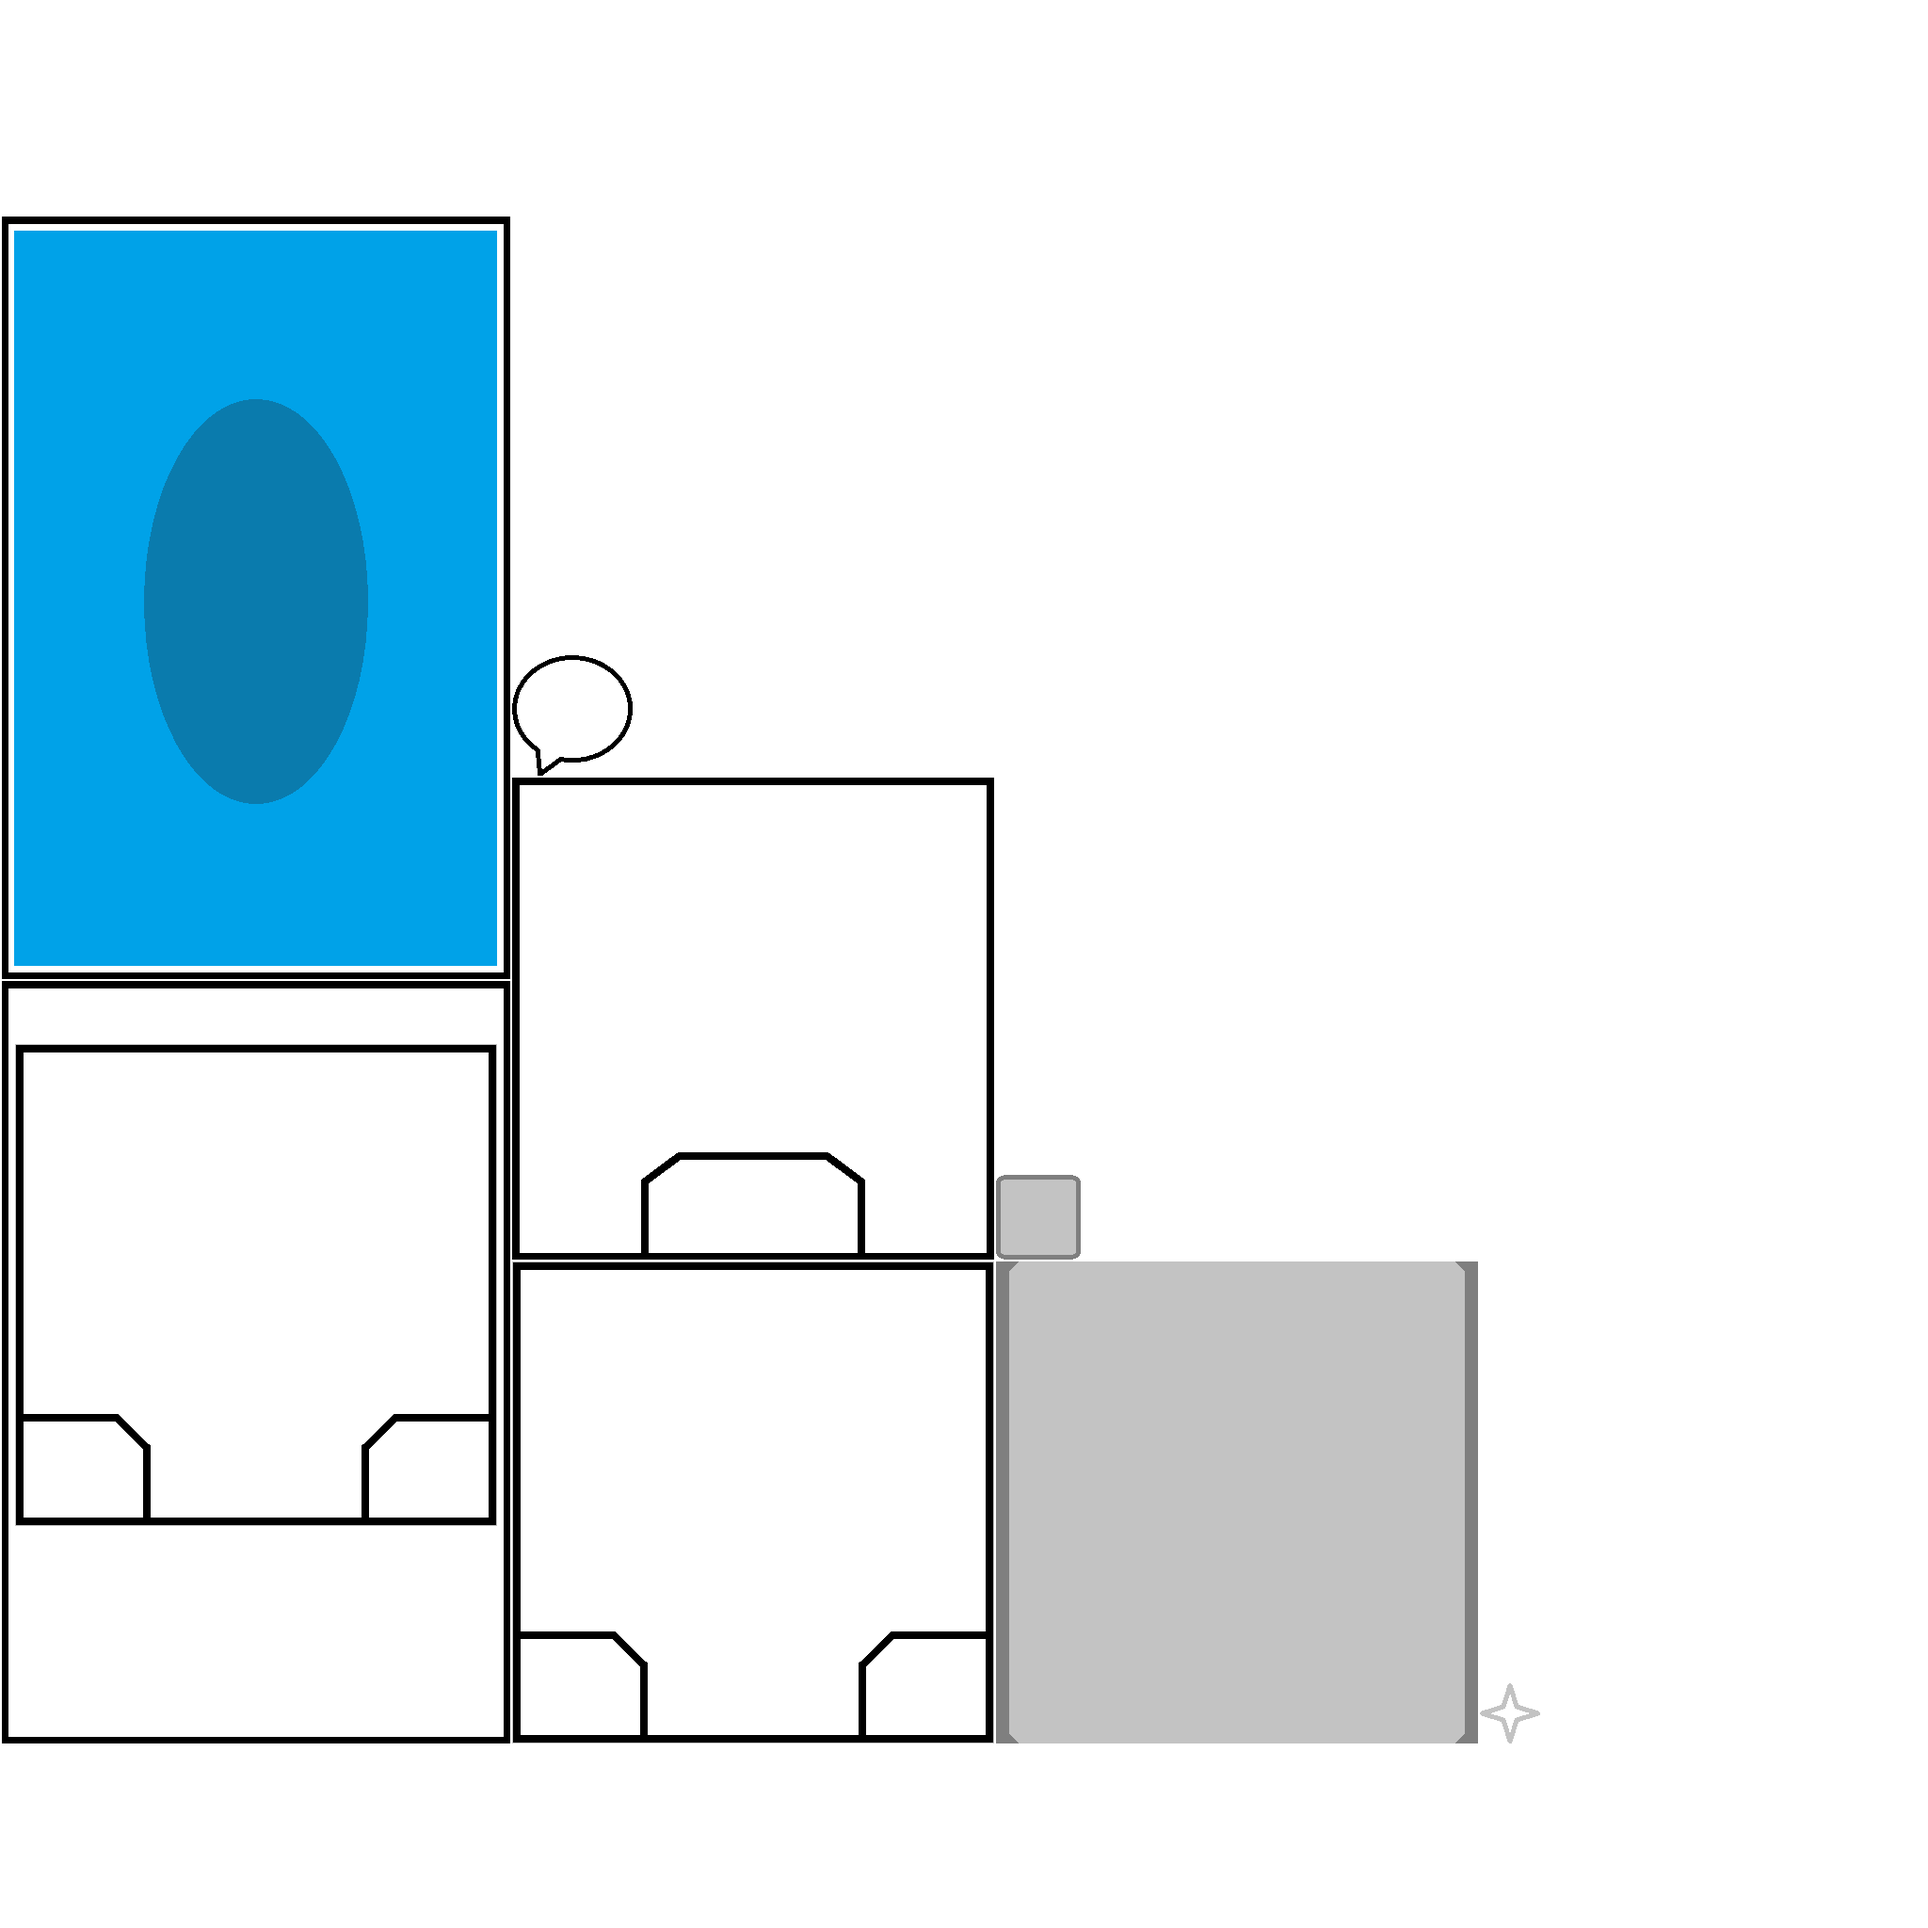
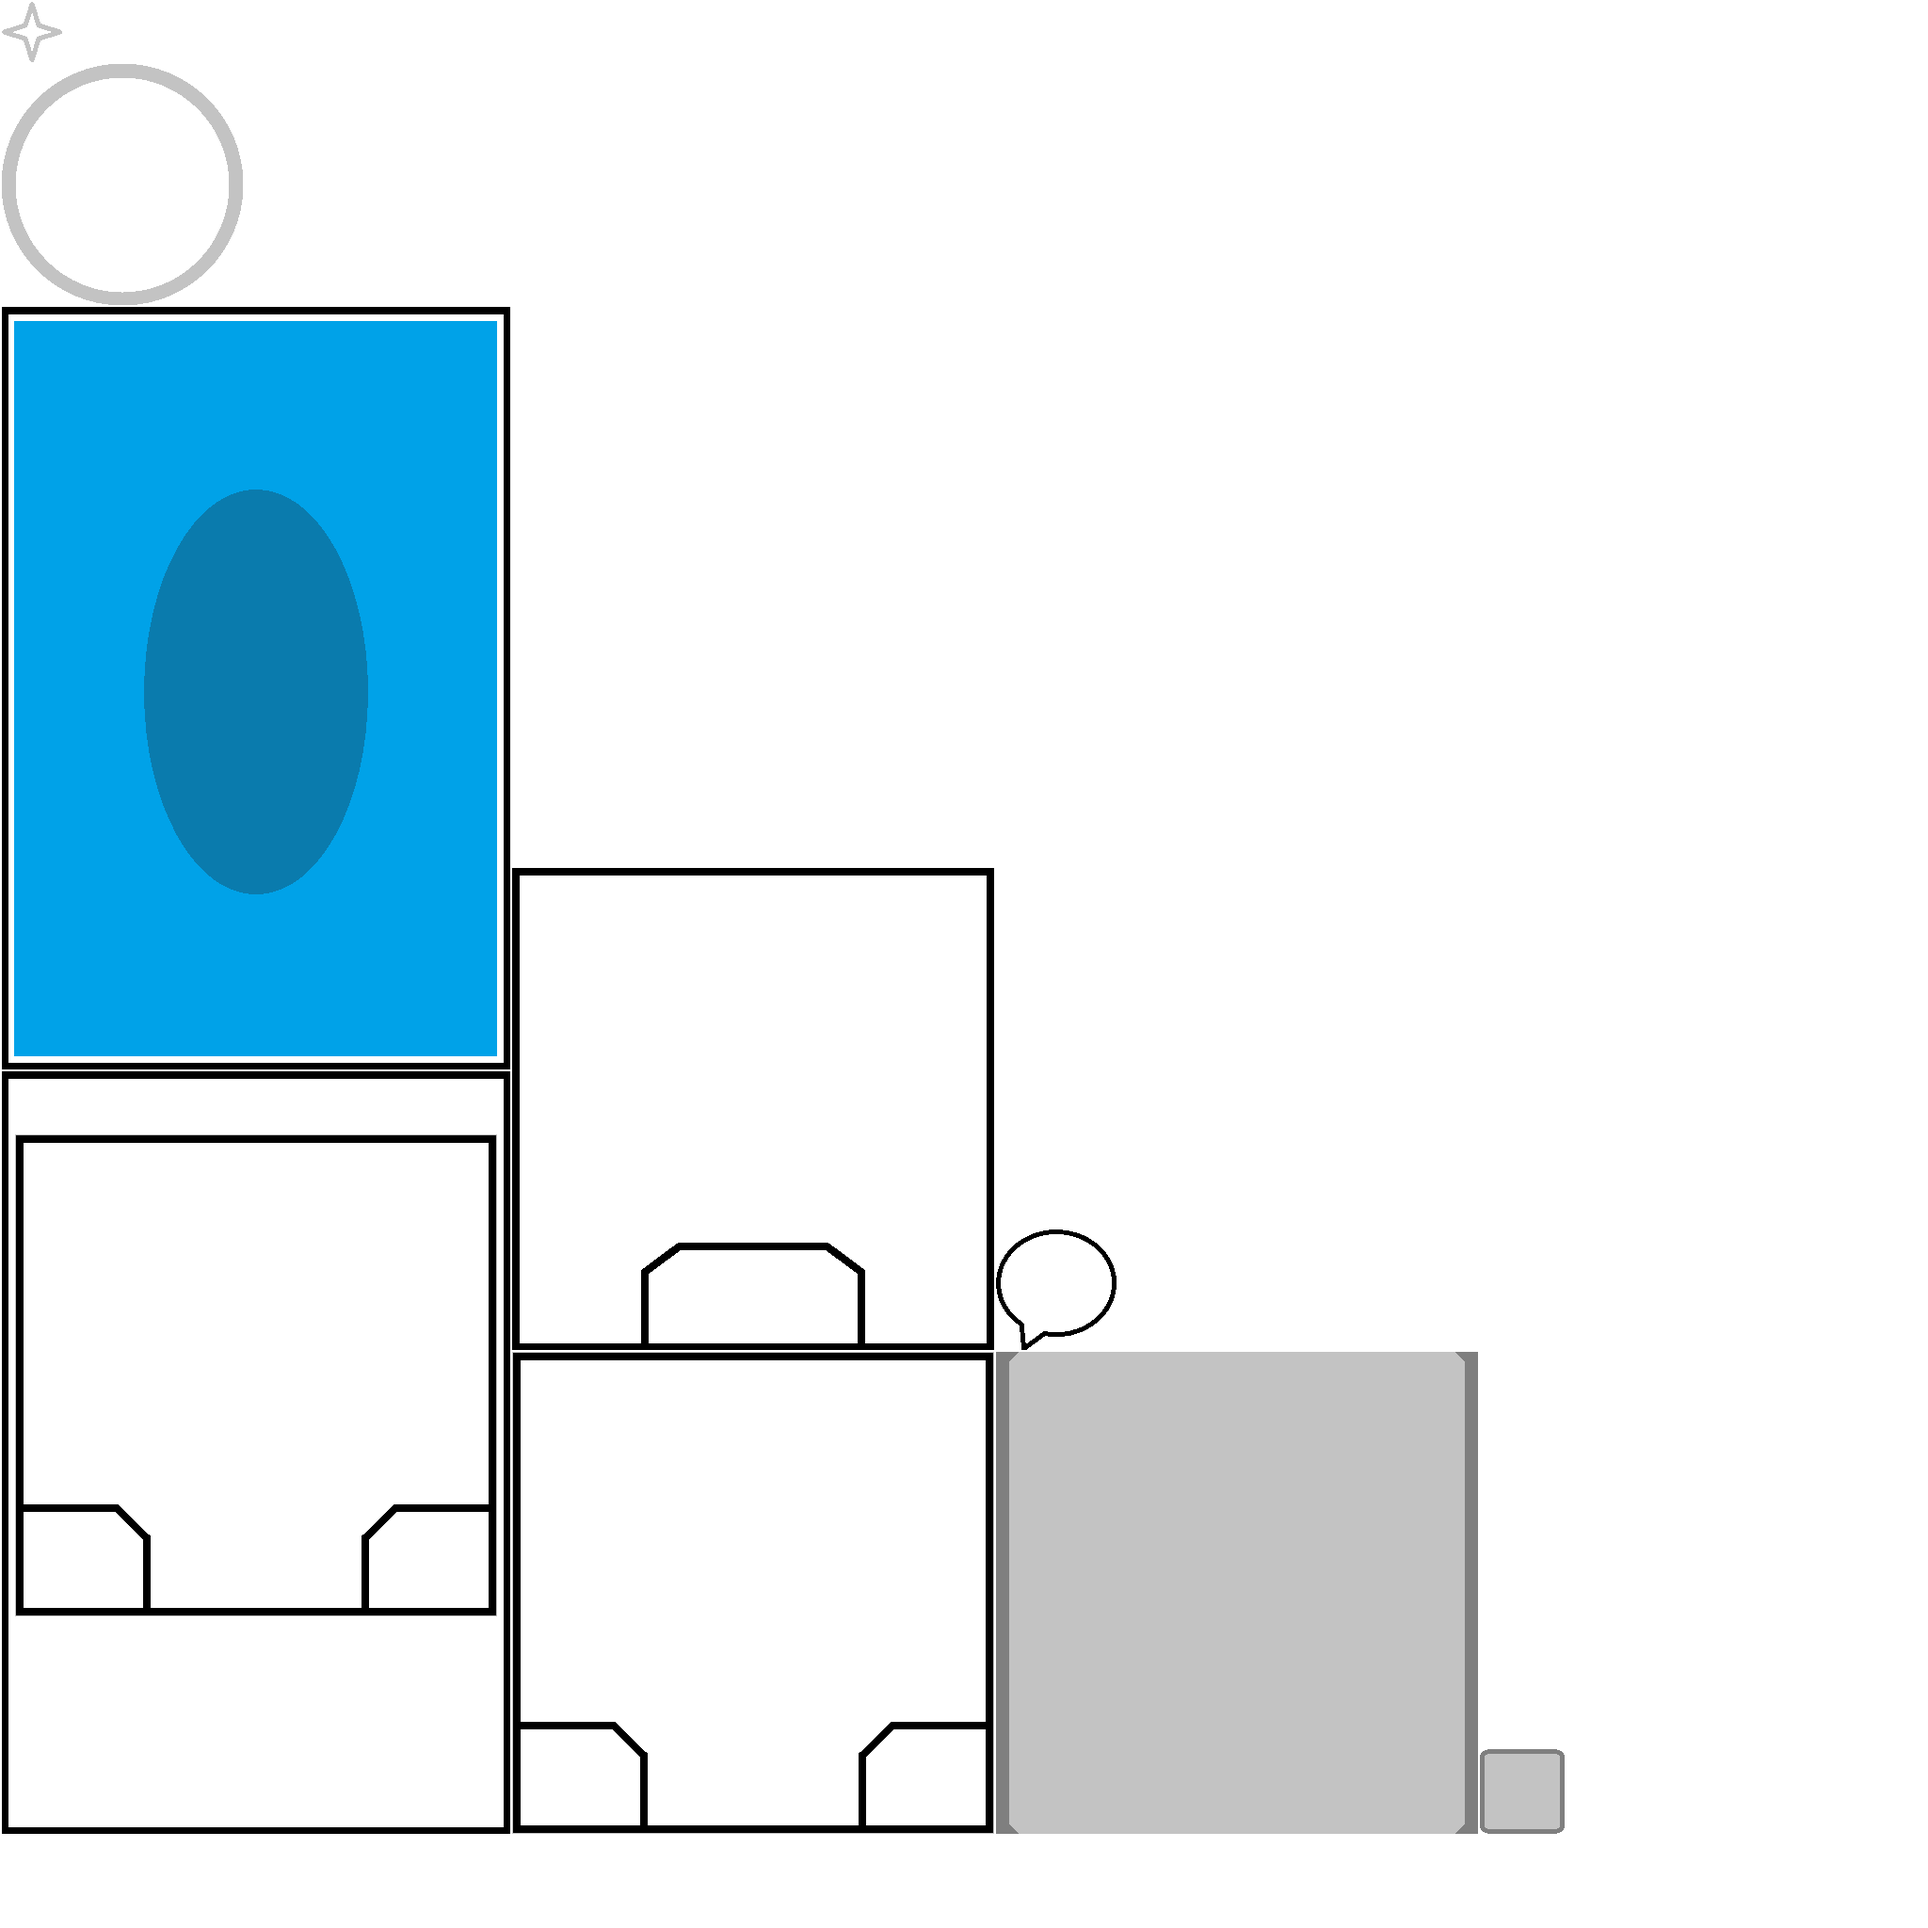
better split between card and battlercard :]

diff --git a/core/src/main/java/io/bloogames/deckbuilder/view/CardView.java b/core/src/main/java/io/bloogames/deckbuilder/view/CardView.java
@@ -1,10 +1,15 @@
 package io.bloogames.deckbuilder.view;
 
+import com.badlogic.gdx.graphics.Color;
 import com.badlogic.gdx.scenes.scene2d.Actor;
+import com.badlogic.gdx.scenes.scene2d.Group;
+import com.badlogic.gdx.scenes.scene2d.Touchable;
 import com.badlogic.gdx.scenes.scene2d.actions.Actions;
 import com.badlogic.gdx.scenes.scene2d.ui.Image;
+import com.badlogic.gdx.scenes.scene2d.ui.Label;
 import com.badlogic.gdx.utils.Align;
 import io.bloogames.deckbuilder.manager.AssetManager;
+import io.bloogames.deckbuilder.manager.FontManager;
 import io.bloogames.deckbuilder.model.CardModel;
 import io.bloogames.deckbuilder.scene2d.ResizableGroup;
 import io.bloogames.deckbuilder.scene2d.ResizableSettings;
@@ -20,37 +25,61 @@ public abstract class CardView extends ResizableGroup implements View, Targetabl
 
     private final TargetingVisualState targetingVisualState = new TargetingVisualState();
     private final CardModel cardModel;
-    private Image cardBack;
+    protected Image cardBack;
+    protected Image frame;
+    protected Image art;
+    protected Image manaSymbol;
+    protected Label nameLabel;
+    protected Label manaLabel;
+    protected ResizableGroup frontFace;
 
-    public CardView(CardModel cardModel) {
+    public CardView(CardModel cardModel, String frameReference, String artReference) {
         super(WIDTH, HEIGHT);
         this.cardModel = cardModel;
+        setOrigin(Align.center);
+
+        this.frontFace = new ResizableGroup(WIDTH, HEIGHT);
+        frontFace.setTouchable(Touchable.disabled);
+
+        this.art = new Image(AssetManager.INSTANCE.getSprite(artReference));
+
+        this.frame = new Image(AssetManager.INSTANCE.getSprite(frameReference));
+
+        this.manaSymbol = new Image(AssetManager.INSTANCE.getSprite("cardmana"));
+
+        nameLabel = new Label(cardModel.getCardName(),
+            new Label.LabelStyle(FontManager.INSTANCE.getCardNameFont(), null));
+        nameLabel.setAlignment(Align.center, Align.left);
+
+        manaLabel = new Label(cardModel.getCurrentCost() + "",
+            new Label.LabelStyle(FontManager.INSTANCE.getBattlerCardManaCostFont(), null));
+        manaLabel.setAlignment(Align.center, Align.center);
+
+        frontFace.register(art, new ResizableSettings(WIDTH * 0.948f, WIDTH * 0.948f).offset(WIDTH * 0.025f, HEIGHT * 0.284f));
+        frontFace.register(frame, new ResizableSettings(WIDTH, HEIGHT, Align.center));
+        frontFace.register(nameLabel, new ResizableSettings(WIDTH - 60f, 25, Align.top).offset(30f, 15f));
+        frontFace.register(manaSymbol, new ResizableSettings(60, 60, Align.topLeft).offset(-10f, -10f));
+        frontFace.register(manaLabel, new ResizableSettings(60, 60, Align.topLeft).offset(-10f, -10f));
+
+        cardBack = new Image(AssetManager.INSTANCE.getSprite("cardback"));
+        register(frontFace, new ResizableSettings(WIDTH, HEIGHT, Align.center));
+        register(cardBack, new ResizableSettings(WIDTH, HEIGHT, Align.center));
+        setTouchable(Touchable.enabled);
+
+        setFacing(cardModel.isFaceup());
     }
 
     public CardModel getModel() {
         return cardModel;
     }
 
-    public abstract void hideContents();
-
-    public abstract void showContents();
+    public void setFacing(boolean isFaceUp) {
+        frontFace.setVisible(isFaceUp);
+        cardBack.setVisible(!isFaceUp);
+    }
 
     public boolean isFaceup() {
         return cardModel.isFaceup();
-    }
-
-    public void flipCard(boolean faceup) {
-        cardModel.setFaceup(faceup);
-        if (faceup) {
-            unregister(cardBack);
-            showContents();
-        } else {
-            hideContents();
-            if (cardBack == null) {
-                cardBack = new Image(AssetManager.INSTANCE.getSprite("cardback"));
-            }
-            register(cardBack, new ResizableSettings(WIDTH, HEIGHT, Align.center));
-        }
     }
 
     public void disappear() {
@@ -71,5 +100,19 @@ public abstract class CardView extends ResizableGroup implements View, Targetabl
     @Override
     public Actor actor() {
         return this;
+    }
+
+    @Override
+    public void applyHighlight() {
+        Color colour = targetingVisualState().getColour();
+        art.setColor(colour);
+        frame.setColor(colour);
+        manaSymbol.setColor(colour);
+    }
+
+    @Override
+    public void sync() {
+        nameLabel.setText(getName());
+        manaLabel.setText(cardModel.getCurrentCost());
     }
 }

diff --git a/core/src/main/java/io/bloogames/deckbuilder/view/BattlerCardView.java b/core/src/main/java/io/bloogames/deckbuilder/view/BattlerCardView.java
@@ -1,11 +1,8 @@
 package io.bloogames.deckbuilder.view;
 
-import com.badlogic.gdx.graphics.Color;
 import com.badlogic.gdx.scenes.scene2d.Touchable;
-import com.badlogic.gdx.scenes.scene2d.ui.Image;
 import com.badlogic.gdx.scenes.scene2d.ui.Label;
 import com.badlogic.gdx.utils.Align;
-import io.bloogames.deckbuilder.manager.AssetManager;
 import io.bloogames.deckbuilder.manager.FontManager;
 import io.bloogames.deckbuilder.model.BattlerCardModel;
 import io.bloogames.deckbuilder.scene2d.ResizableSettings;
@@ -14,70 +11,31 @@ public class BattlerCardView extends CardView {
     public static final float WIDTH = CardView.WIDTH;
     public static final float HEIGHT = CardView.HEIGHT;
     private final BattlerCardModel battlerCardModel;
-    private final Image frame;
-    private final Image art;
-    private final Label nameLabel;
+
     private final Label powerLabel;
     private final Label healthLabel;
 
     public BattlerCardView(BattlerCardModel model) {
-        super(model);
+        super(model, "battlerframe", "card/" + model.getCardId());
         this.battlerCardModel = model;
-        setOrigin(Align.center);
-        setTouchable(Touchable.enabled);
-        art = new Image(AssetManager.INSTANCE.getSprite("card/" + model.getCardId()));
-        art.setTouchable(Touchable.disabled);
-
-        frame = new Image(AssetManager.INSTANCE.getSprite("battlerframe"));
-        frame.setTouchable(Touchable.disabled);
-
-        nameLabel = new Label(battlerCardModel.getCardName(),
-            new Label.LabelStyle(FontManager.INSTANCE.getCardNameFont(), null));
-        nameLabel.setTouchable(Touchable.disabled);
-        nameLabel.setAlignment(Align.center, Align.center);
 
         powerLabel = new Label(battlerCardModel.getPower() + "",
             new Label.LabelStyle(FontManager.INSTANCE.getBattlerCardStatFont(), null));
-        powerLabel.setTouchable(Touchable.disabled);
         powerLabel.setAlignment(Align.center, Align.center);
 
         healthLabel = new Label(battlerCardModel.getHealth() + "",
             new Label.LabelStyle(FontManager.INSTANCE.getBattlerCardStatFont(), null));
-        healthLabel.setTouchable(Touchable.disabled);
         healthLabel.setAlignment(Align.center, Align.center);
 
-        showContents();
-    }
-
-    @Override
-    public void hideContents() {
-        unregister(art);
-        unregister(frame);
-        unregister(nameLabel);
-        unregister(powerLabel);
-        unregister(healthLabel);
-    }
-
-    @Override
-    public void showContents() {
-        register(art, new ResizableSettings(WIDTH * 0.948f, WIDTH * 0.948f).offset(WIDTH * 0.025f, HEIGHT * 0.284f));
-        register(frame, new ResizableSettings(WIDTH, HEIGHT, Align.center));
-        register(nameLabel, new ResizableSettings(WIDTH, 25, Align.top).yOffset(15f));
-        register(powerLabel, new ResizableSettings(WIDTH * 0.181f, HEIGHT * 0.12f).offset(30f, HEIGHT * 0.296f));
-        register(healthLabel, new ResizableSettings(WIDTH * 0.181f, HEIGHT * 0.12f, Align.bottomRight).offset(30f, HEIGHT * 0.296f));
+        frontFace.register(powerLabel, new ResizableSettings(WIDTH * 0.181f, HEIGHT * 0.12f).offset(30f, HEIGHT * 0.296f));
+        frontFace.register(healthLabel, new ResizableSettings(WIDTH * 0.181f, HEIGHT * 0.12f, Align.bottomRight).offset(30f, HEIGHT * 0.296f));
     }
 
     @Override
     public void sync() {
-        nameLabel.setText(getName());
+        super.sync();
         powerLabel.setText(battlerCardModel.getPower());
         healthLabel.setText(battlerCardModel.getHealth());
     }
 
-    @Override
-    public void applyHighlight() {
-        Color colour = targetingVisualState().getColour();
-        art.setColor(colour);
-        frame.setColor(colour);
-    }
 }

diff --git a/core/src/main/java/io/bloogames/deckbuilder/manager/FontManager.java b/core/src/main/java/io/bloogames/deckbuilder/manager/FontManager.java
@@ -14,6 +14,7 @@ public enum FontManager {
     BitmapFont battlerCardStatFont;
     BitmapFont leaderHealthFont;
     BitmapFont leaderMessageFont;
+    BitmapFont battlerCardManaCostFont;
 
     public BitmapFont getBattlerStatFont() {
         if (battlerStatFont == null) {
@@ -58,6 +59,21 @@ public enum FontManager {
         }
 
         return battlerCardStatFont;
+    }
+
+    public BitmapFont getBattlerCardManaCostFont() {
+        if (battlerCardManaCostFont == null) {
+            var generator = new FreeTypeFontGenerator(Gdx.files.internal("fonts/arial.ttf"));
+            var parameter = new FreeTypeFontGenerator.FreeTypeFontParameter();
+            parameter.color = Color.BLACK;
+            parameter.size = 64;
+            parameter.minFilter = Texture.TextureFilter.Linear;
+            parameter.magFilter = Texture.TextureFilter.Linear;
+            battlerCardManaCostFont = generator.generateFont(parameter);
+            generator.dispose();
+        }
+
+        return battlerCardManaCostFont;
     }
 
     public BitmapFont getLeaderHealthFont() {

diff --git a/core/src/main/java/io/bloogames/deckbuilder/model/CardModel.java b/core/src/main/java/io/bloogames/deckbuilder/model/CardModel.java
@@ -6,7 +6,7 @@ import io.bloogames.deckbuilder.effect.condition.SourceConditionList;
 import io.bloogames.deckbuilder.effect.source.concrete.CardSource;
 import io.bloogames.deckbuilder.effect.target.TargetSpec;
 
-public class CardModel {
+public abstract class CardModel {
     private BaseCard base;
     private boolean faceup = true;
 
